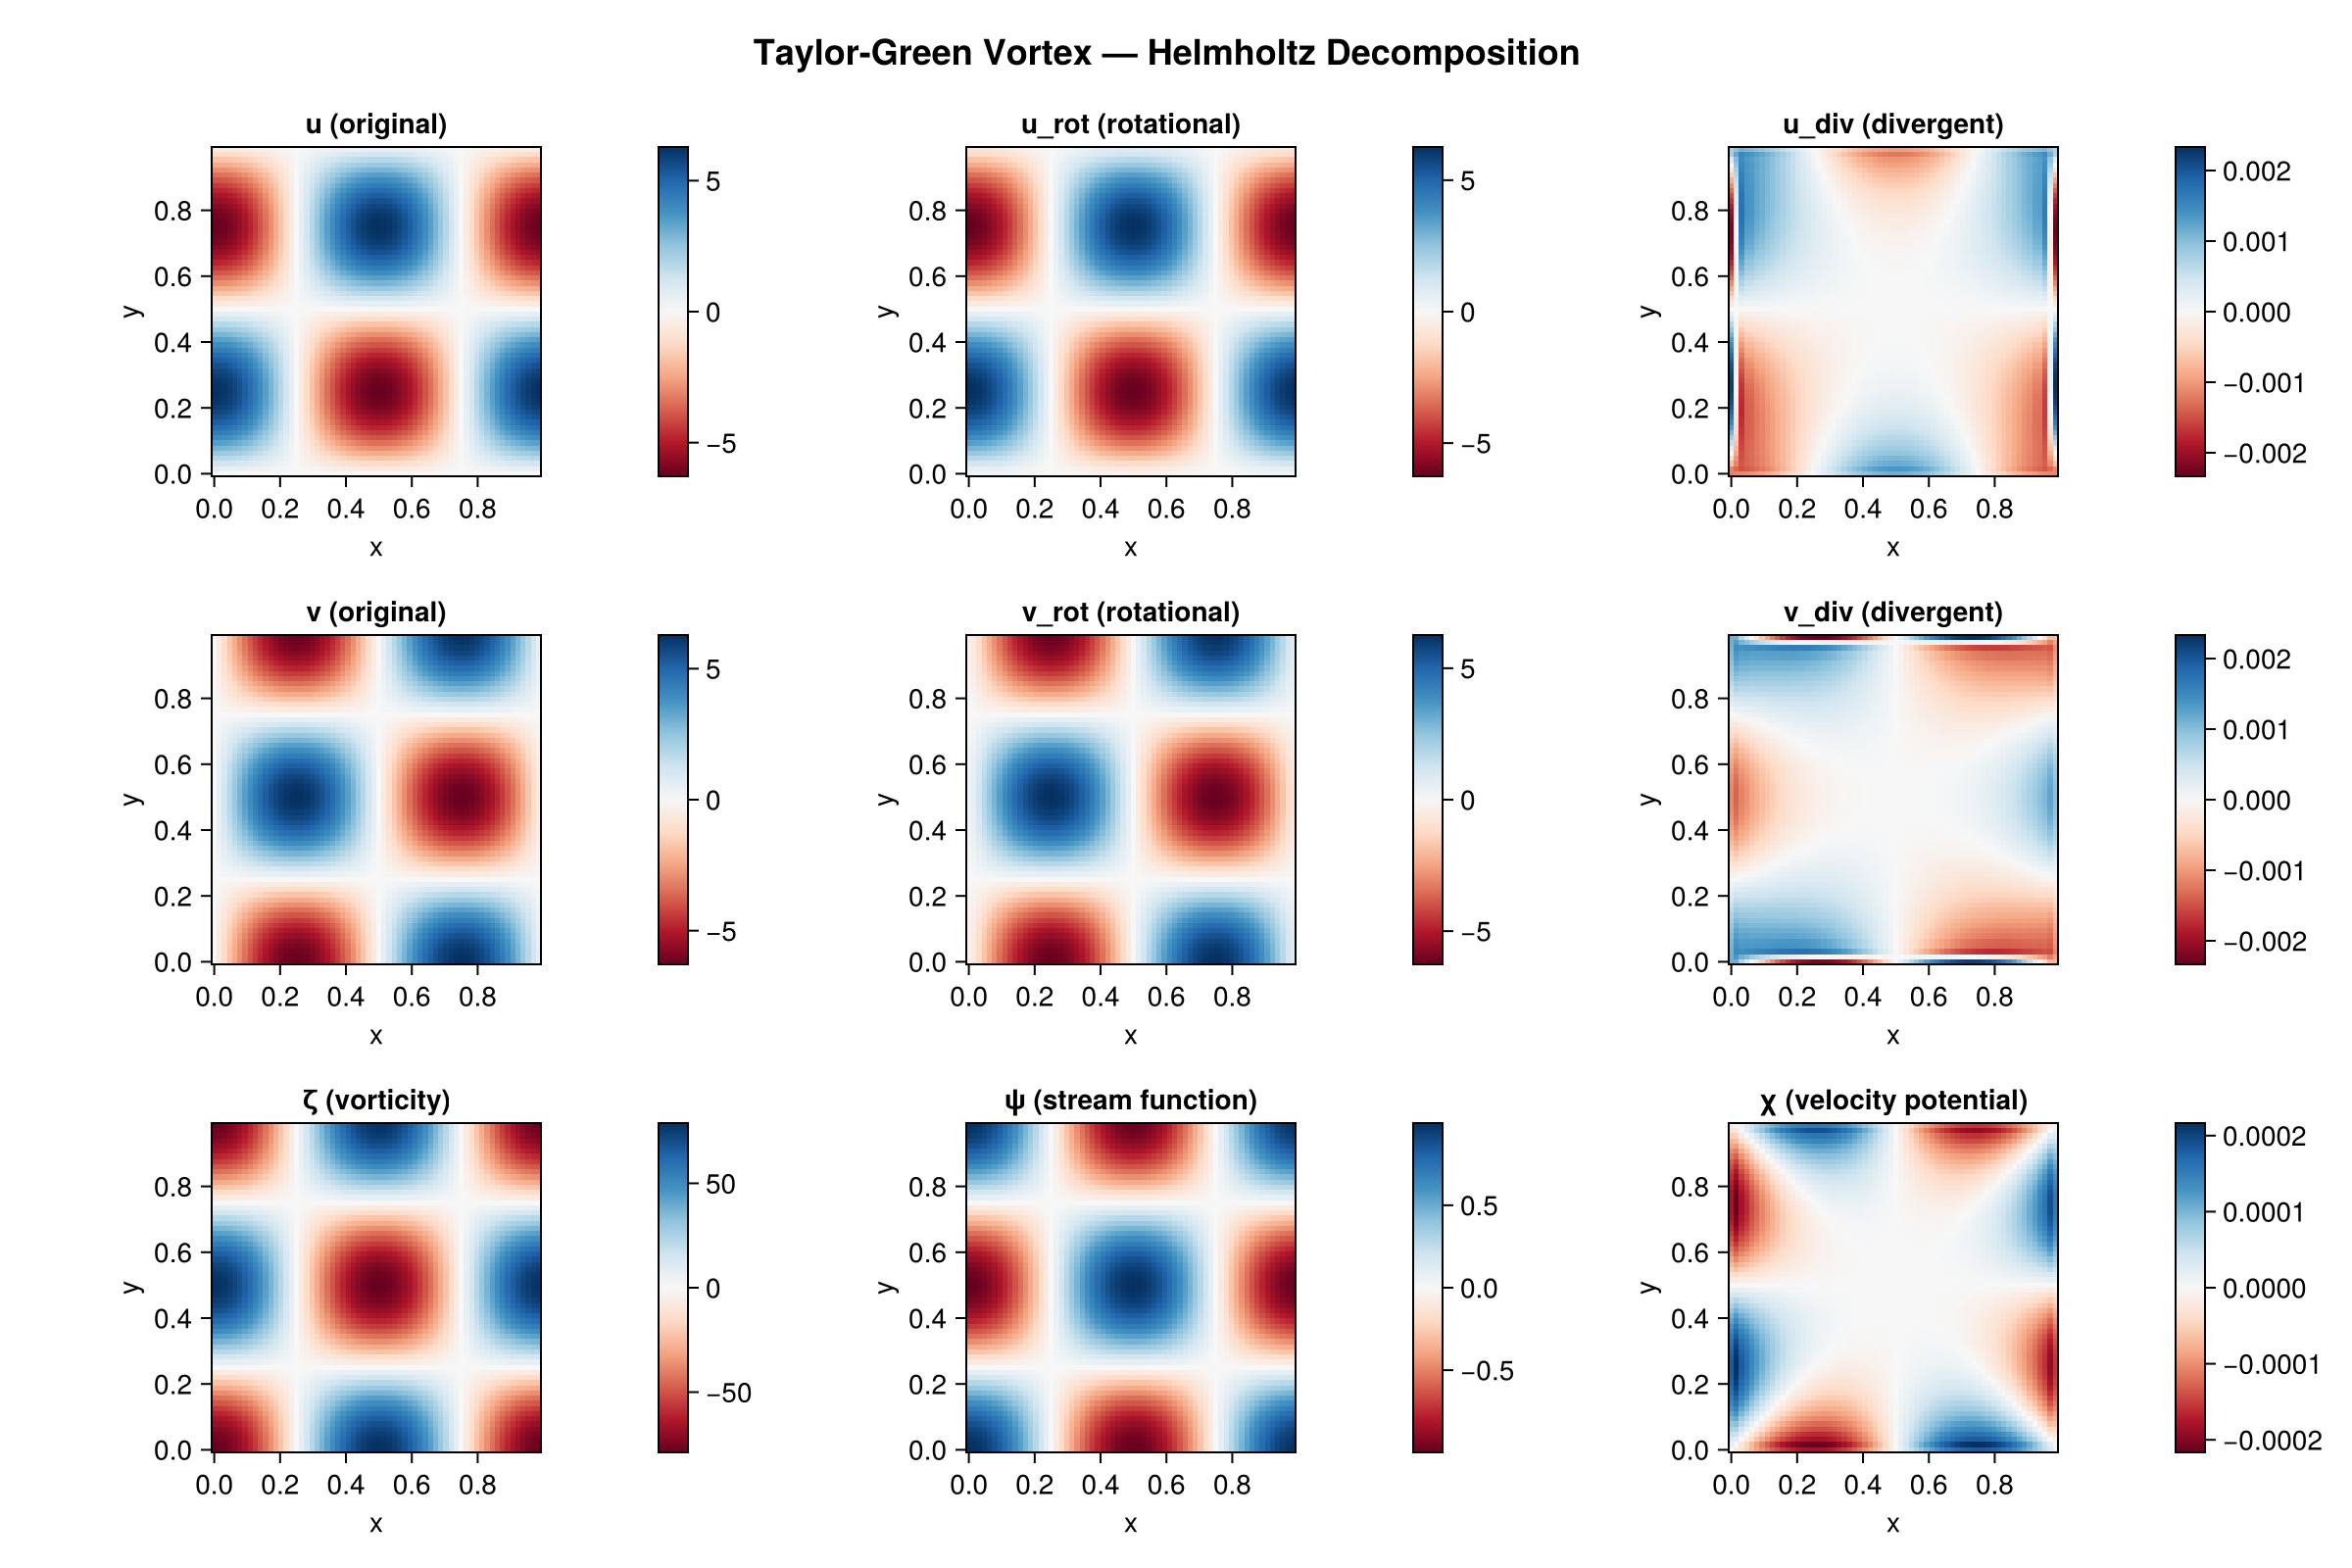
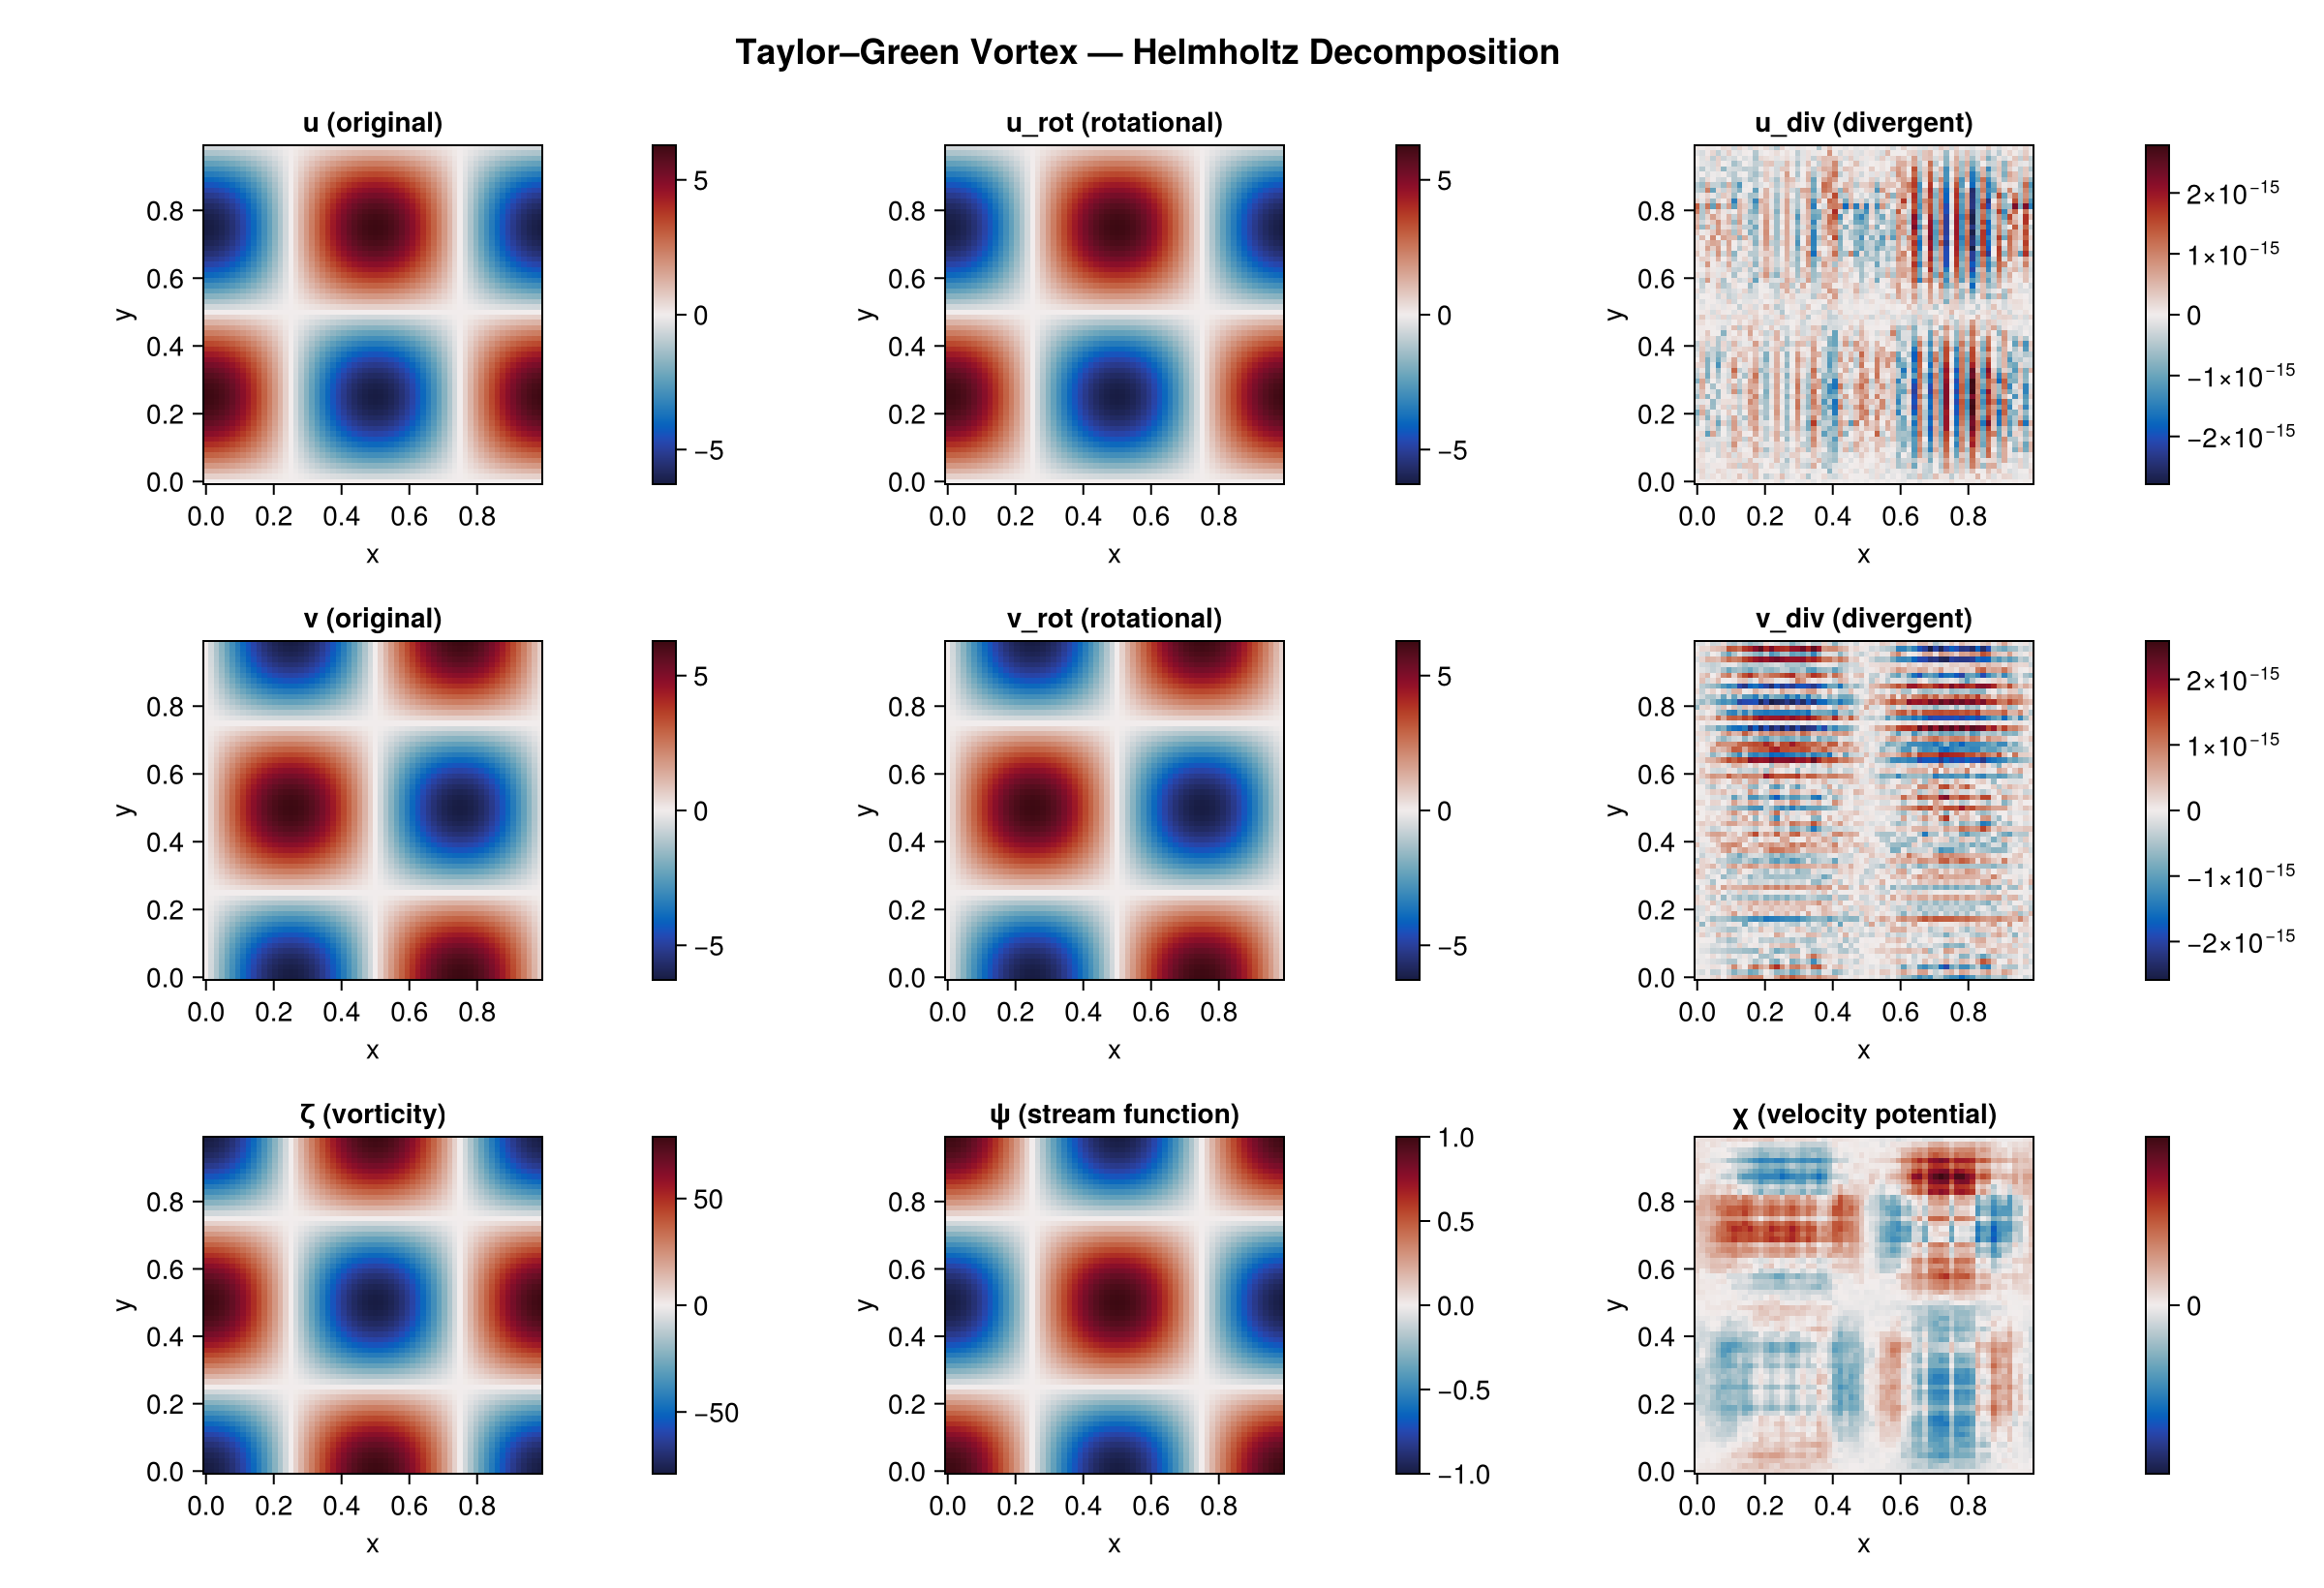
Regenerate figures with consistent colorscheme + add new-feature figures
- generate_assets.jl rewritten to the new API with a single consistent palette
  (signed fields → diverging :balance with symmetric range; magnitudes → sequential :dense),
  fixing the old viridis/RdBu mismatch.
- New figures: harmonic_annulus_decomposition.png (issue #1: circulation captured entirely
  by u_harm, hole masked, harmonic_fraction=1.0) and three_dimensional_decomposition.png
  (3-D ABC flow z-slice, u_div≈0). Classic three regenerated.
- README + examples.md reference all five figures.
Figures visually inspected.

diff --git a/README.md b/README.md
@@ -36,6 +36,20 @@ Then for coarse-graining: filter ψ̄, χ̄ as scalars → reconstruct velocity 
 
 ![Point Source Decomposition](docs/assets/point_source_decomposition.png)
 
+### Harmonic circulation on an annulus (multiply-connected domain, issue #1)
+
+A pure circulation around a masked hole is **harmonic** — `u_rot ≈ 0`, `u_div ≈ 0`, and the
+whole field lands in `u_harm` (`harmonic_fraction ≈ 1`, `count_holes = 1`).
+
+![Harmonic Annulus Decomposition](docs/assets/harmonic_annulus_decomposition.png)
+
+### 3-D ABC (Beltrami) flow (`z` mid-slice)
+
+A fully solenoidal 3-D field: the rotational part recovers the original and the divergent
+part vanishes.
+
+![3-D Decomposition](docs/assets/three_dimensional_decomposition.png)
+
 ## Solver Extensions ⚠️
 
 The base package includes only an iterative SOR solver (Red-Black Successive Over-Relaxation). While correct, it is **orders of magnitude slower** than spectral solvers for large grids.

diff --git a/docs/src/examples.md b/docs/src/examples.md
@@ -14,6 +14,14 @@
 
 ![Point Source Decomposition](../assets/point_source_decomposition.png)
 
+### Harmonic circulation on an annulus (multiply-connected)
+
+![Harmonic Annulus Decomposition](../assets/harmonic_annulus_decomposition.png)
+
+### 3-D ABC (Beltrami) flow — `z` mid-slice
+
+![3-D Decomposition](../assets/three_dimensional_decomposition.png)
+
 Velocity-like result fields use a component-last layout `(dims..., N)`; index the last
 axis (or use `cat(u, v; dims=3)` to build inputs). Runnable scripts live in `examples/`.
 